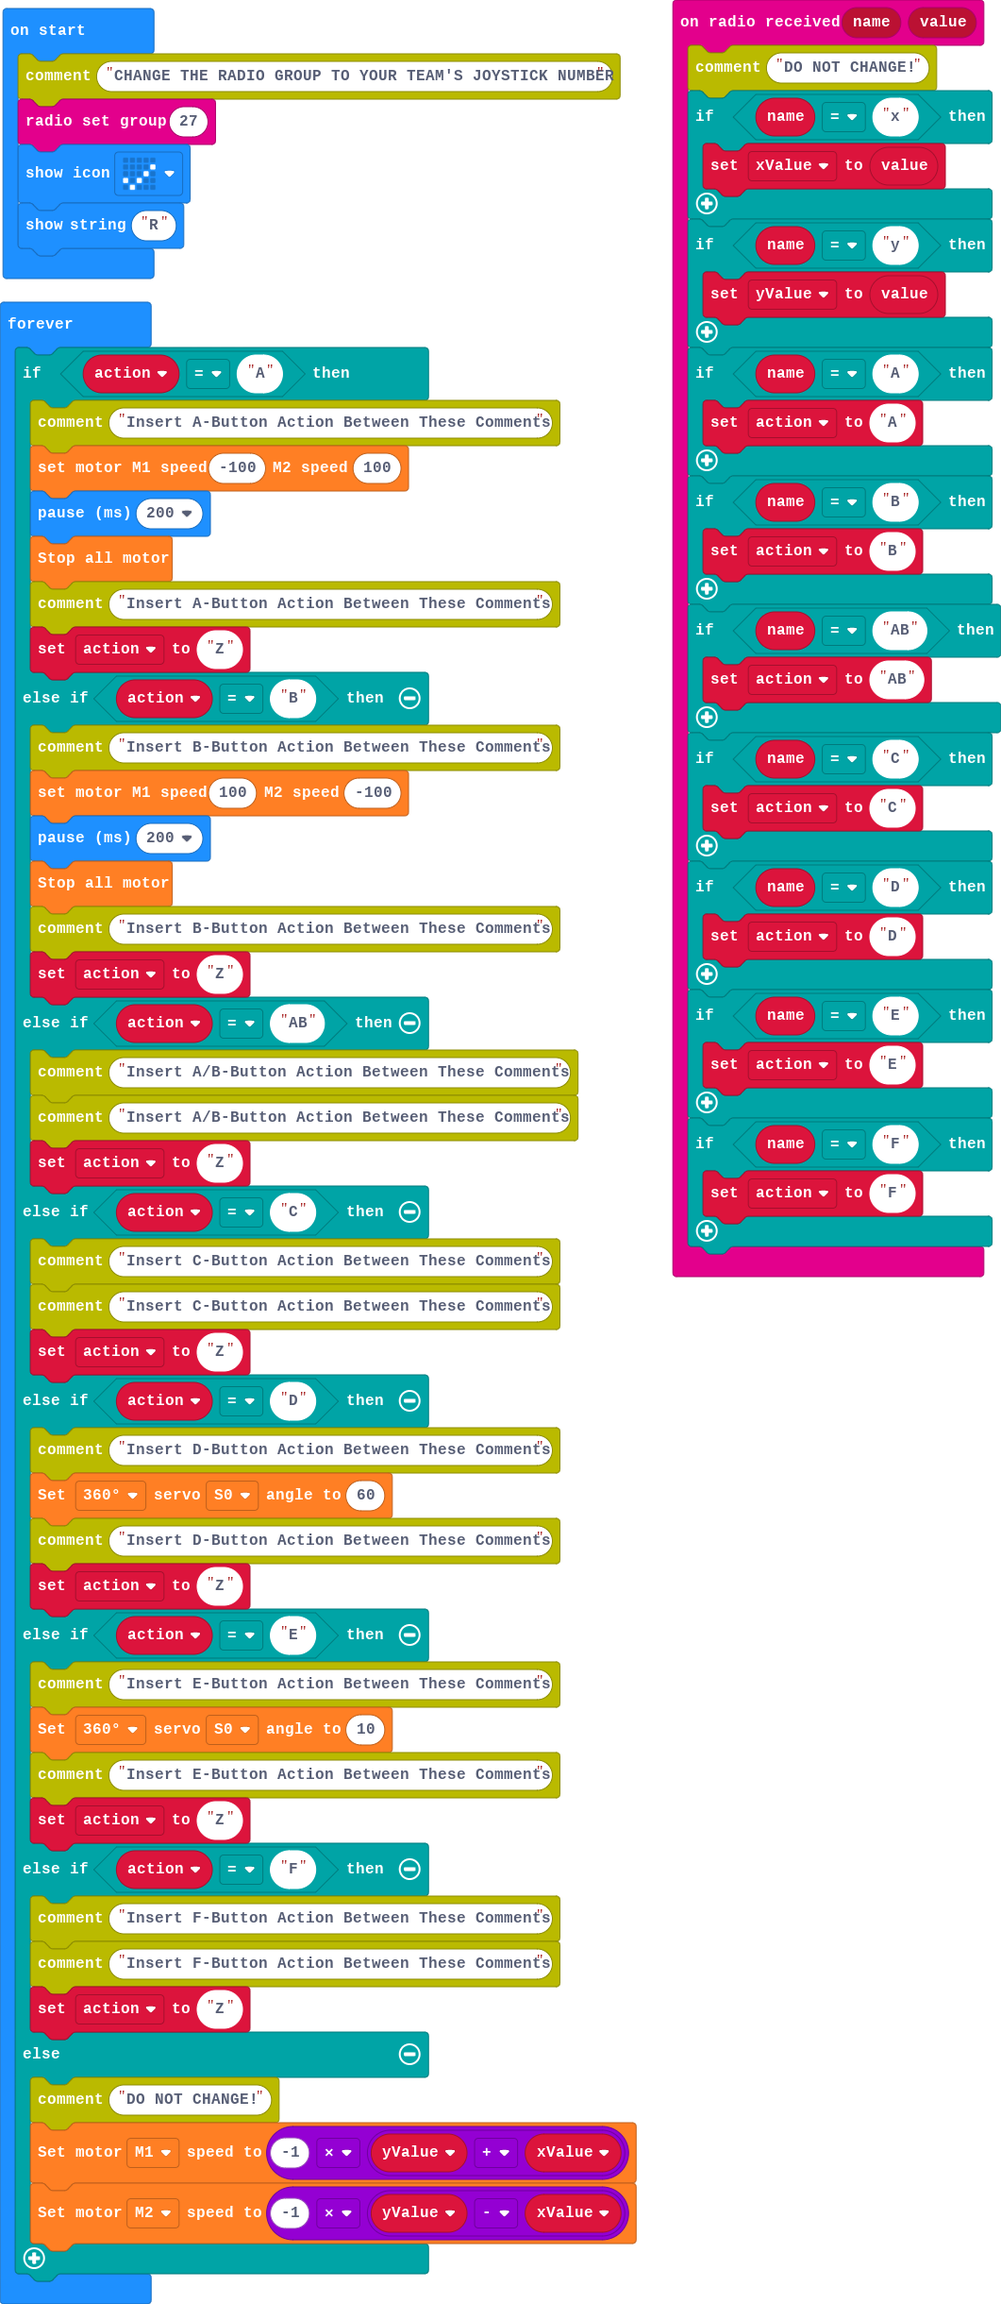
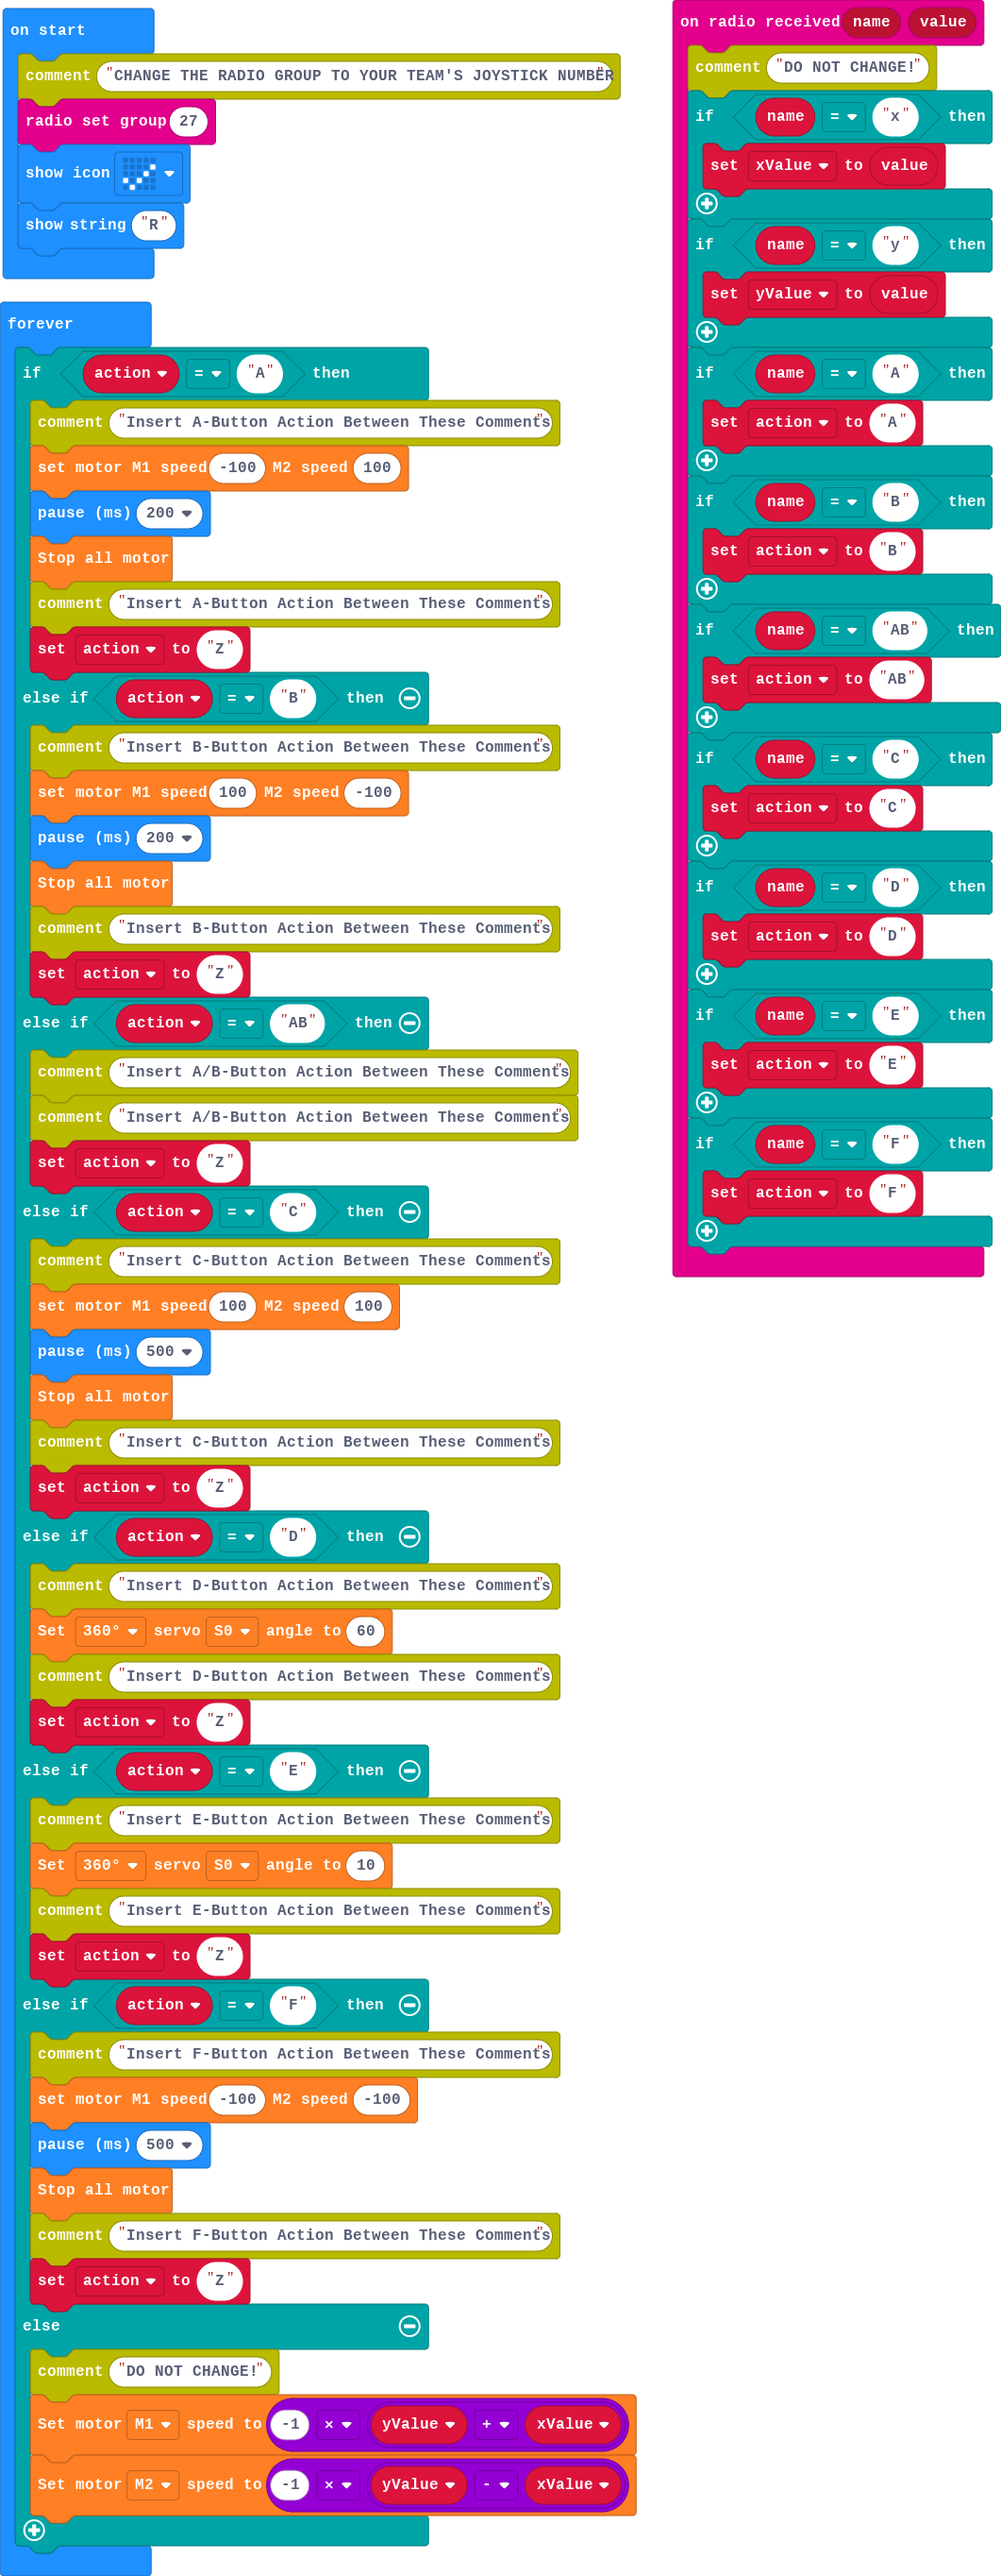
Update main.blocks, main.ts

diff --git a/main.ts b/main.ts
@@ -56,6 +56,9 @@ basic.forever(function () {
         action = "Z"
     } else if (action == "C") {
         comment.comment("Insert C-Button Action Between These Comments")
+        wuKong.setAllMotor(100, 100)
+        basic.pause(500)
+        wuKong.stopAllMotor()
         comment.comment("Insert C-Button Action Between These Comments")
         action = "Z"
     } else if (action == "D") {
@@ -70,6 +73,9 @@ basic.forever(function () {
         action = "Z"
     } else if (action == "F") {
         comment.comment("Insert F-Button Action Between These Comments")
+        wuKong.setAllMotor(-100, -100)
+        basic.pause(500)
+        wuKong.stopAllMotor()
         comment.comment("Insert F-Button Action Between These Comments")
         action = "Z"
     } else {
